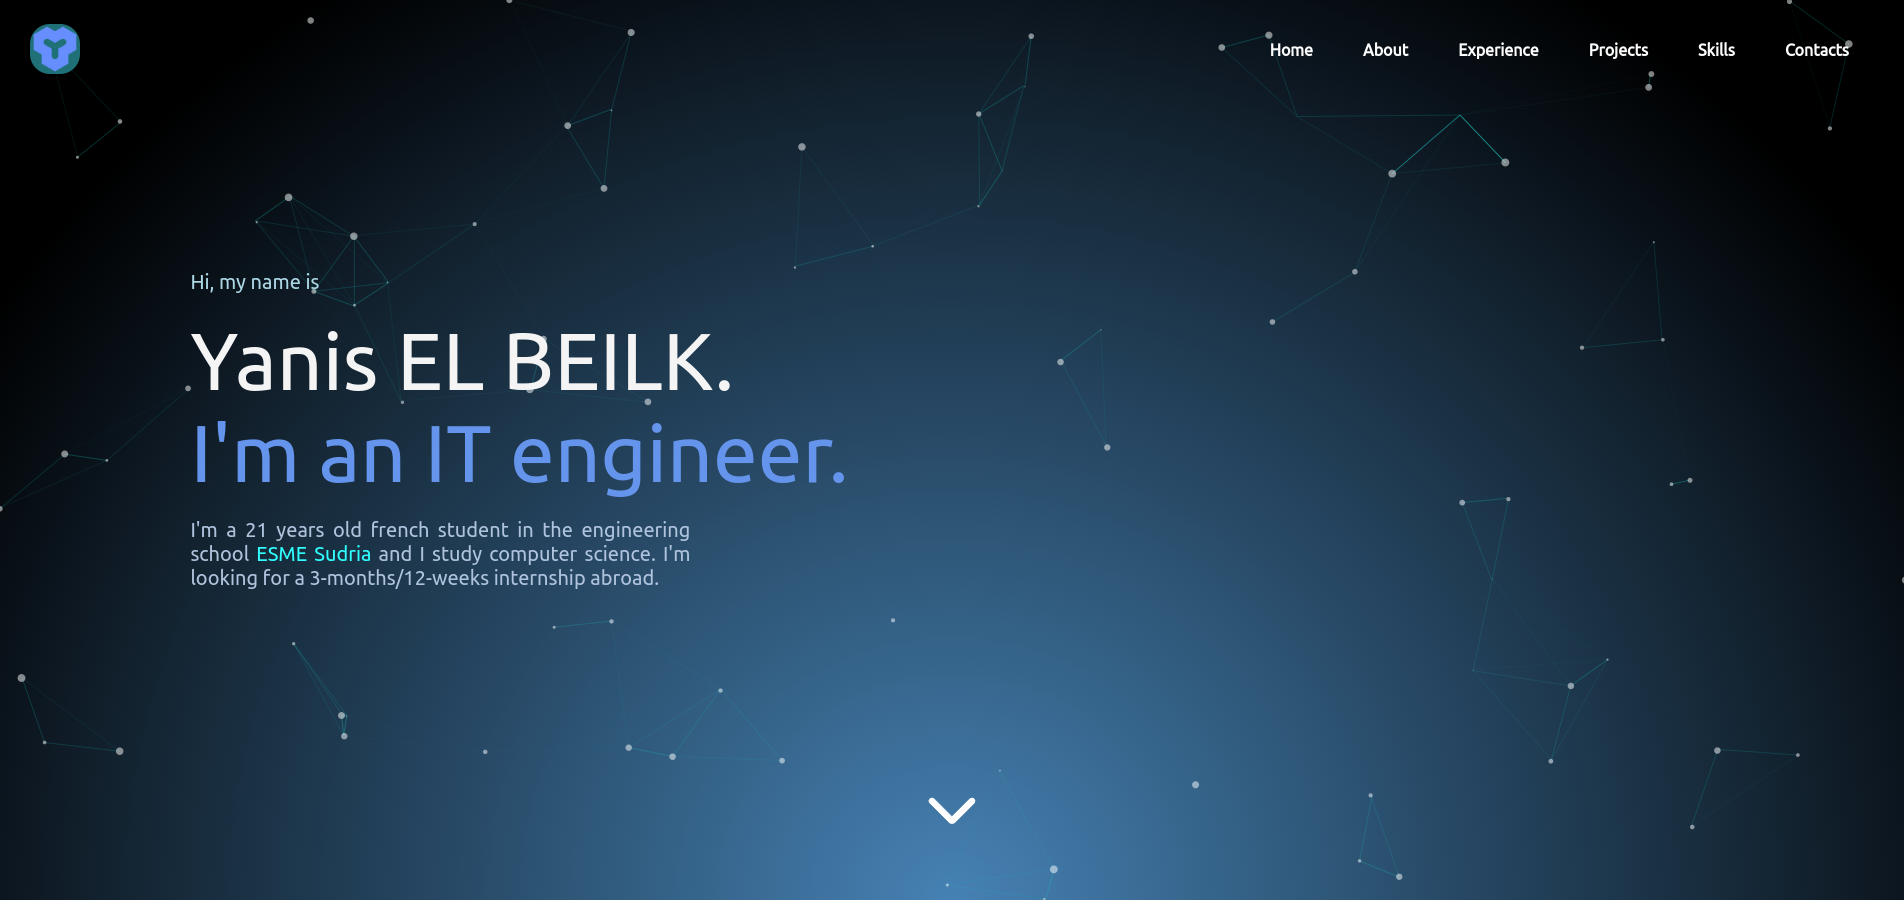
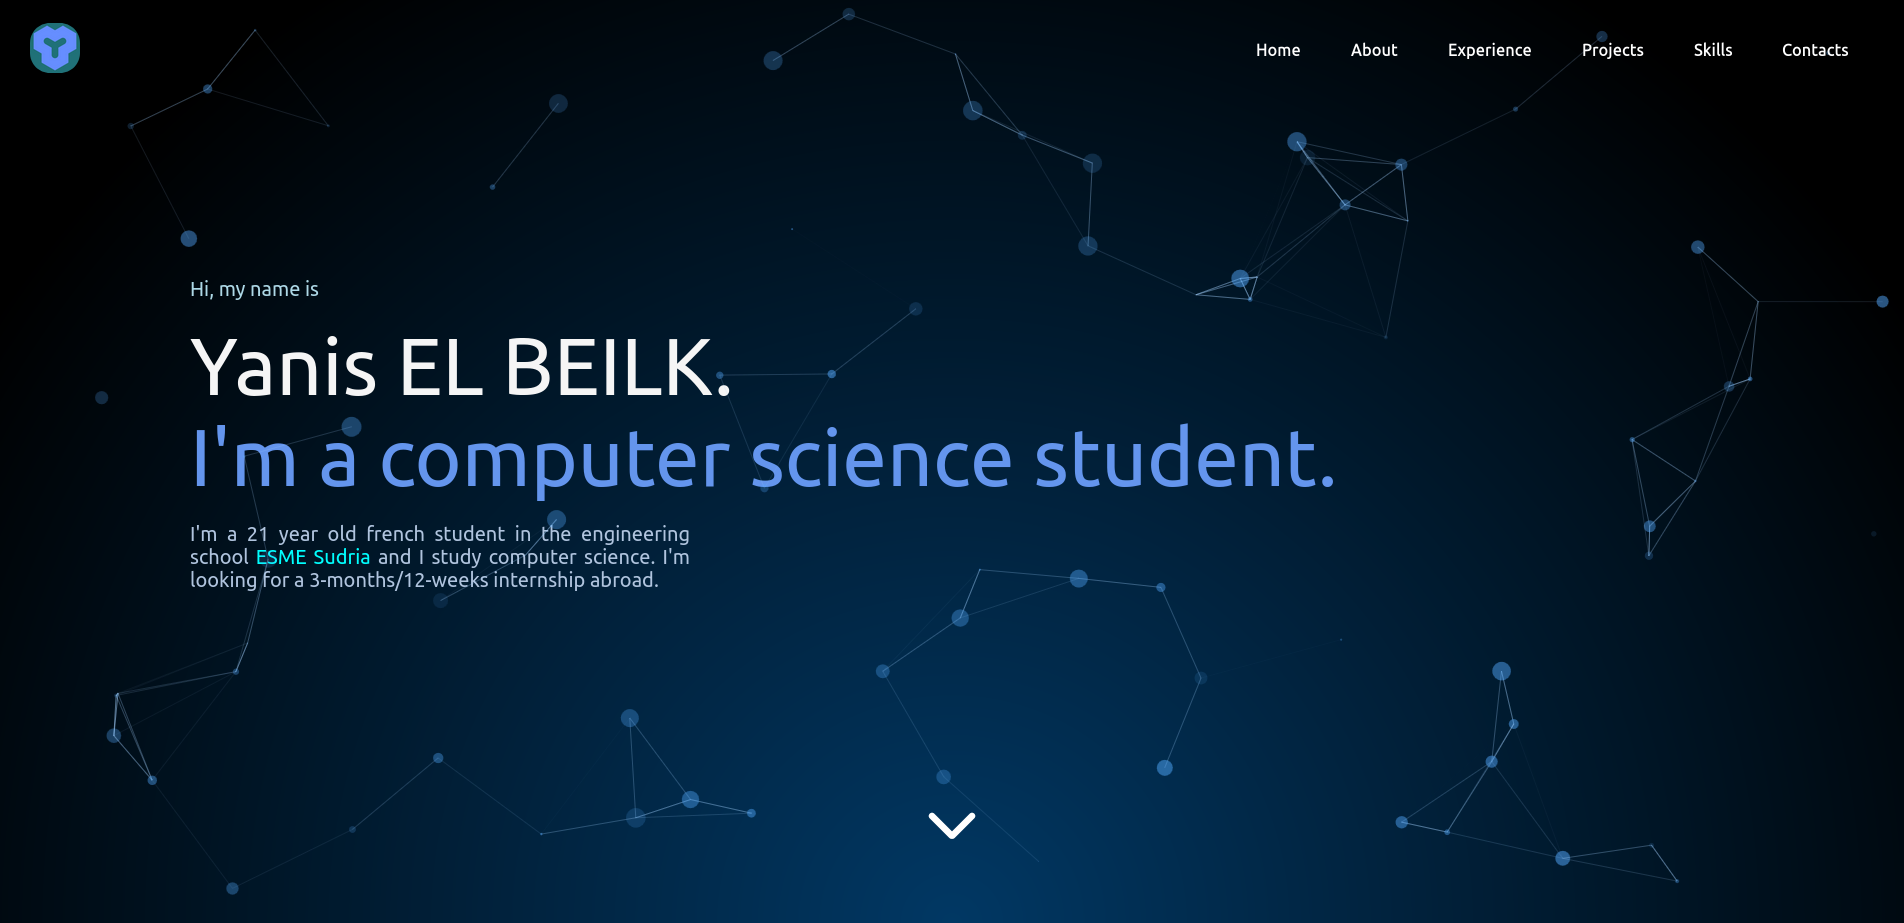
add a project and new skills

diff --git a/index.html b/index.html
@@ -61,7 +61,7 @@
     <div id="presentation">
         <span class="content-presentation" id="hi">Hi, my name is</span>
         <span class="content-presentation" id="name">Yanis EL BEILK.</span>
-        <span class="content-presentation" id="profession">I'm an IT engineer.</span>
+        <span class="content-presentation" id="profession">I'm a computer science student.</span>
         <p class="content-presentation" id="biography">
             I'm a 21 year old french student in the engineering school <a href="https://www.esme.fr/en/" target="_blank">ESME Sudria</a> and 
             I study computer science.
@@ -165,8 +165,30 @@
     <section id="projects">
         <h2 class="title-section" id="title-projects">Projects</h2>
 
+        <div class="projects-presentation hidden" id="resolution-vote">
+                    <img src="ressources/images/projects/vote-illustration.jpg" alt="illustration of a vote" class="visual-content">
+                    <div class="projects-information">
+                        <div class="projects-title">Smart Contract : Resolution Vote</div>
+                        <div class="main-information">2023 | School Project</div>
+                        <p class="projects-description">
+                            The code is a smart contract of a simple model of political voting for resolutions put in place by an assembly and candidates with crypto wallet.
+                        </p>
+                        <div class="language">Solidity</div>
+                        <a href="https://github.com/yaniselbeilk/assembly-vote-blockchain" target="_blank" class="tooltip" data-tooltip="See the code">
+                            <svg class="github-logo" stroke="#ffffff" viewBox="0 0 192 192" xmlns="http://www.w3.org/2000/svg" fill="#000000">
+                                <g id="SVGRepo_bgCarrier" stroke-width="0" />
+                                <g id="SVGRepo_tracerCarrier" stroke-linecap="round" stroke-linejoin="round" />
+                                <g id="SVGRepo_iconCarrier">
+                                    <path stroke-linecap="round" stroke-linejoin="round" stroke-width="12"
+                                        d="M120.755 170c.03-4.669.059-20.874.059-27.29 0-9.272-3.167-15.339-6.719-18.41 22.051-2.464 45.201-10.863 45.201-49.067 0-10.855-3.824-19.735-10.175-26.683 1.017-2.516 4.413-12.63-.987-26.32 0 0-8.296-2.672-27.202 10.204-7.912-2.213-16.371-3.308-24.784-3.352-8.414.044-16.872 1.14-24.785 3.352C52.457 19.558 44.162 22.23 44.162 22.23c-5.4 13.69-2.004 23.804-.987 26.32C36.824 55.498 33 64.378 33 75.233c0 38.204 23.149 46.603 45.2 49.067-3.551 3.071-6.719 9.138-6.719 18.41 0 6.416.03 22.621.059 27.29M27 130c9.939.703 15.67 9.735 15.67 9.735 8.834 15.199 23.178 10.803 28.815 8.265" />
+                                </g>
+                            </svg>
+                        </a>
+                    </div>
+        </div>
+
         <div class="projects-presentation hidden" id="dns-sinkhole">
-                    <img src="ressources/images/projects/DNS-server.png" alt="Portfolio screenshot" class="visual-content">
+                    <img src="ressources/images/projects/DNS-server.png" alt="pihole screenshot" class="visual-content">
                     <div class="projects-information">
                         <div class="projects-title">DNS sinkhole & VPN</div>
                         <div class="main-information">2023 | Personal Project</div>
@@ -350,6 +372,14 @@
                 <img src="ressources/images/skills/jenkins_logo.svg" alt="Jenkins logo" class="skills-logo">
                 <span>Jenkins</span>
             </a>
+            <a href="https://aws.amazon.com/" target="_blank">
+                <img src="ressources/images/skills/aws-logo.svg" alt="AWS logo" class="skills-logo">
+                <span>AWS</span>
+            </a>
+             <a href="https://azure.microsoft.com/en-us" target="_blank">
+                <img src="ressources/images/skills/azure-logo.svg" alt="Azure logo" class="skills-logo">
+                <span>Azure</span>
+            </a>
             <a href="https://pi-hole.net" target="_blank">
                 <img src="ressources/images/skills/pihole_logo.svg" alt="pihole logo" class="skills-logo">
                 <span>Pi-hole</span>
@@ -388,7 +418,6 @@
                 <img src="ressources/images/skills/rust_logo.svg" alt="Rust programming language logo" class="skills-logo" />
                 <span>Rust</span>
             </a>
-
             <a href="https://www.lua.org/" target="_blank">
                 <img src="ressources/images/skills/lua_logo.svg" alt="Lua programming language logo" class="skills-logo" />
                 <span>Lua</span>
@@ -396,6 +425,10 @@
             <a href="https://git-scm.com" target="_blank">
                 <img src="ressources/images/skills/git_logo.svg" alt="Git logo" class="skills-logo" />
                 <span>Git</span>
+            </a>
+            <a href="https://soliditylang.org/" target="_blank">
+                <img src="ressources/images/skills/solidity-logo.svg" alt="Solidity programming language logo" class="skills-logo" />
+                <span>Solidity</span>
             </a>
        </div>
 
@@ -493,7 +526,7 @@
                 <span>Git</span>
             </a>
         </div>
-
+ 
         <h3 class="title-skills-mobile">Design & Editing</h3>
         <div class="container-skills" id="design">
 

diff --git a/css/projects.css b/css/projects.css
@@ -82,6 +82,10 @@
         background-size: cover;
     }
 
+    
+    #resolution-vote::after{
+        background-image: url("../ressources/images/projects/vote-illustration.jpg");
+    }
     #dns-sinkhole::after {
         background-image: url("../ressources/images/projects/DNS-server.png");
     }
